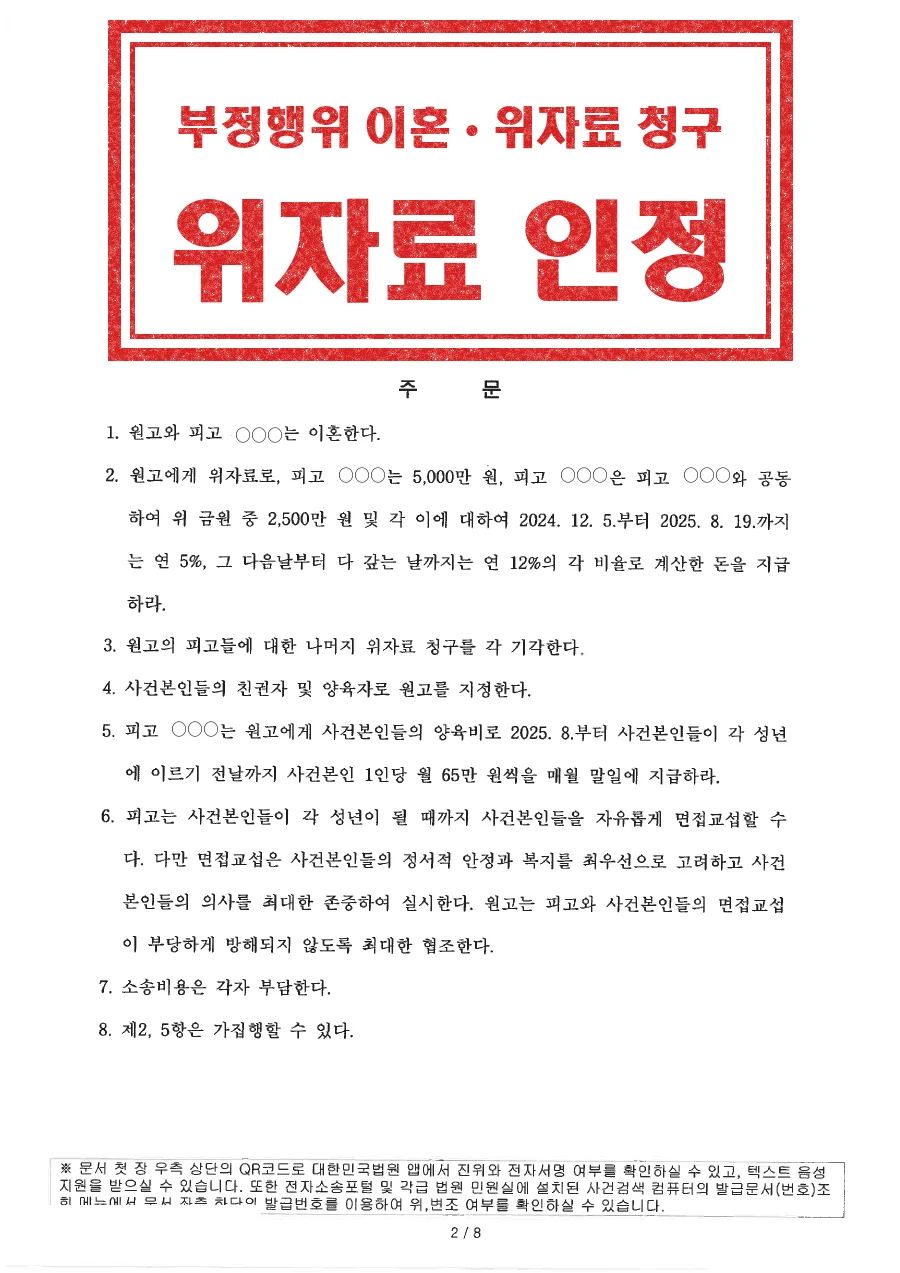
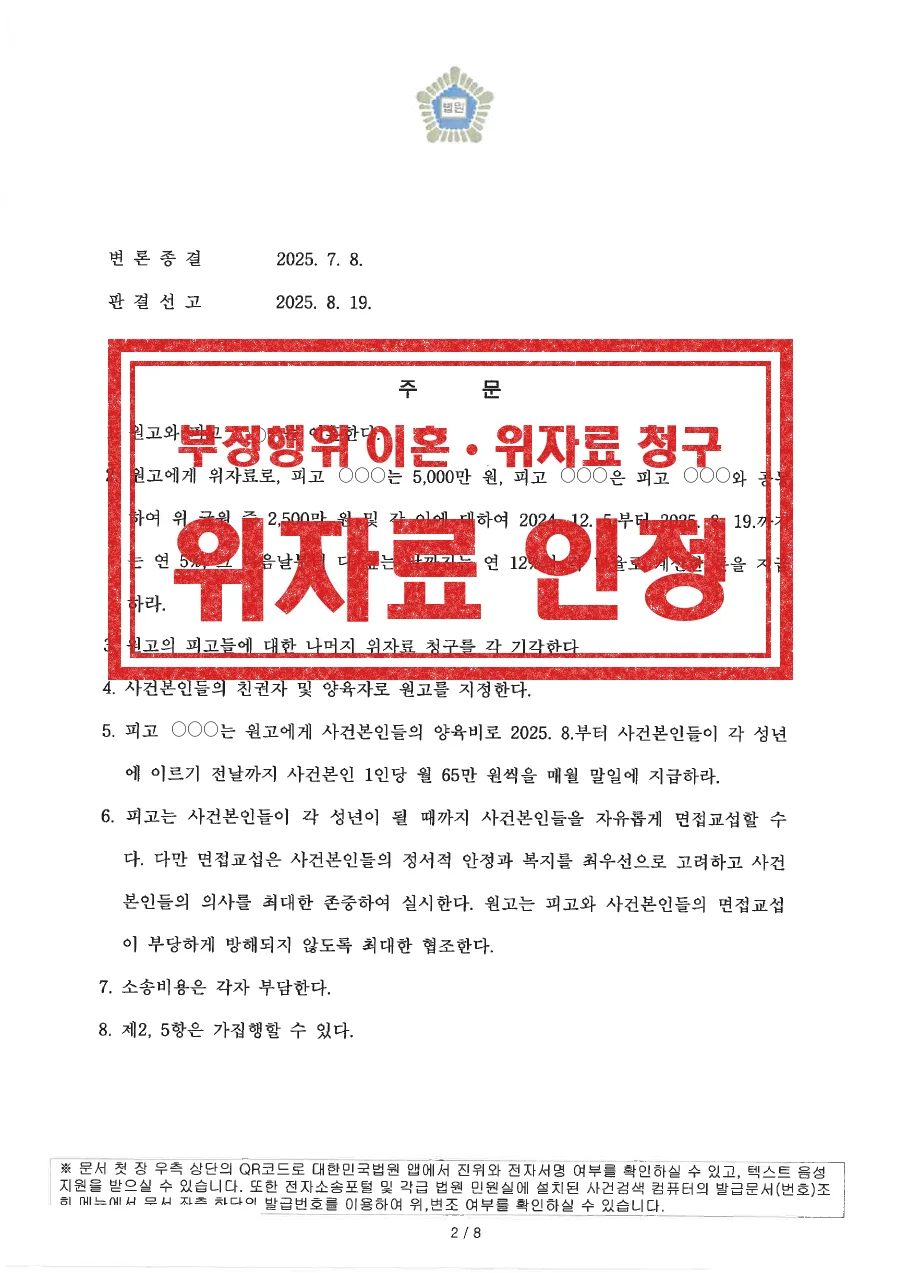
성공사례 case-20: 도장을 다른 사례와 같은 가운데 위치로(주문과 겹침), 법원 마크·변론종결·선고일 복원
Claude-Session: https://claude.ai/code/session_019BpyvRfw1kgAhxY1Ym6REe

Changed region(s): [[0.0933, 0.0, 0.9022, 0.5515], [0.1867, 0.337, 0.8089, 0.3676]]

diff --git a/results.html b/results.html
@@ -444,8 +444,8 @@
           </div>
         </article>
         <article class="case" id="case-20" data-cat="divorce">
-          <a class="case__fig" href="images/case-20.webp?v=3" target="_blank" rel="noopener">
-            <img src="images/case-20-thumb.webp?v=3" alt="판결문 주문(당사자 이름 가림) — 배우자 부정행위 이혼·위자료 청구, 위자료 인정" width="1200" height="900" loading="lazy">
+          <a class="case__fig" href="images/case-20.webp?v=4" target="_blank" rel="noopener">
+            <img src="images/case-20-thumb.webp?v=4" alt="판결문 주문(당사자 이름 가림) — 배우자 부정행위 이혼·위자료 청구, 위자료 인정" width="1200" height="900" loading="lazy">
           </a>
           <div class="case__body">
             <div class="case__top"><span class="case__tag">가사</span></div>
